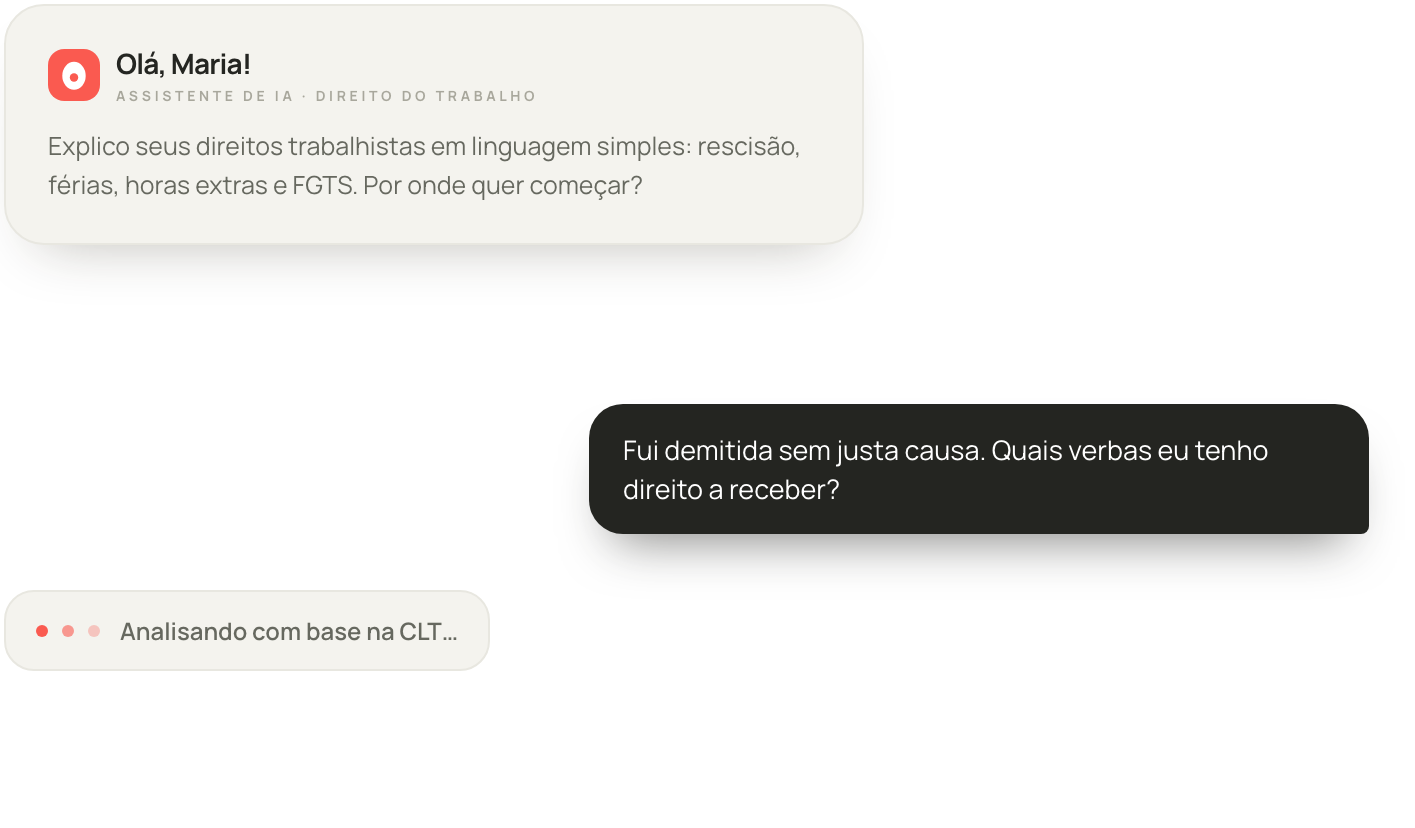
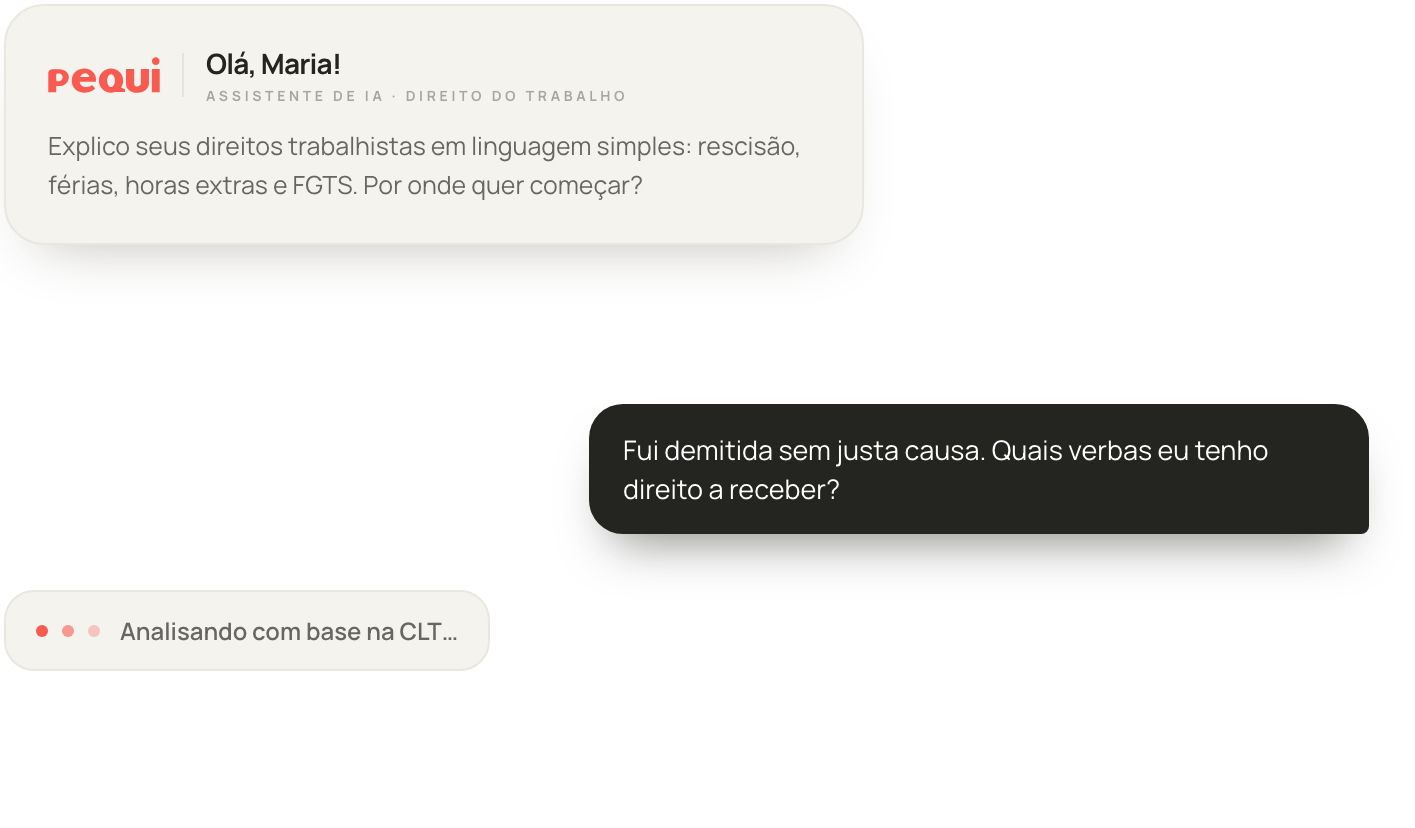
Logotipo oficial do Pequi em coral no site e nas imagens
O menu, o rodapé e o cabeçalho do painel (computador e celular) passam a usar o
logotipo oficial (arquivo Pequi Brand.ai) na cor primária #FA5A50, no lugar do
símbolo com o nome escrito. As 5 prévias da página inicial e a imagem do
Assistente foram refeitas com o logotipo novo.

Changed region(s): [[0.0311, 0.0604, 0.4353, 0.1208]]

diff --git a/app/components/PequiWordmark.tsx b/app/components/PequiWordmark.tsx
@@ -1,6 +1,5 @@
-// Marca em texto do Pequi no esquema M&C (igual à Lucia): símbolo coral
-// arredondado + nome em Manrope. Substitui o logo amarelo (public/logo/logo.png,
-// mantido no projeto) no menu e no rodapé.
+// Marca do Pequi: logotipo oficial em coral (PequiLogo) no menu, no rodapé e no painel.
+// PequiMark (símbolo quadrado) fica disponível para usos pequenos.
 type Props = {
   className?: string;
   tone?: 'ink' | 'light';
@@ -17,17 +16,25 @@ export function PequiMark({ className = 'h-8 w-8' }: { className?: string }) {
   );
 }
 
+// Logotipo oficial "pequi" (arquivo Pequi Brand.ai), na cor primária do site.
+// O arquivo vetorial fica em Builder/Pequi/Marca/pequi-logo-coral.svg.
+const LOGO_VIEWBOX = '64.5 284.4 443.6 142.5';
+const LOGO_PATH =
+  'M 353.61 405.24 C 359.01 397.55 362.18 388.18 362.18 378.04 C 362.18 351.55 340.61 330.33 314.12 330.33 C 287.65 330.33 266.25 351.55 266.25 378.04 C 266.25 404.52 287.65 425.76 314.12 425.76 C 319.41 425.76 324.51 424.91 329.27 423.34 L 369.63 423.34 L 369.63 411.83 Z M 329.55 378.04 C 329.55 391.89 322.54 403.11 314.12 403.11 C 305.88 403.11 298.87 391.89 298.87 378.04 C 298.87 364.18 305.88 352.96 314.12 352.96 C 322.54 352.96 329.55 364.18 329.55 378.04 M 191.93 364.01 C 195.26 354.89 202.61 348.93 211.04 348.93 C 220.5 348.93 227.93 355.94 227.93 364.01 Z M 190.71 382.25 L 254.19 382.25 C 259.1 354.37 237.35 330.33 208.94 330.33 C 178.78 330.33 158.44 351.9 158.44 378.38 C 158.44 404.52 178.07 425.76 211.23 425.76 C 227.36 425.76 242.44 418.55 251.03 409.25 L 239.28 395.75 C 233.67 400.48 226.82 403.47 217.54 403.47 C 200.36 403.47 189.83 394.7 190.71 382.25 M 491.39 285.45 C 482.97 285.45 476.13 292.28 476.13 300.7 C 476.13 309.12 482.97 315.61 491.39 315.61 C 499.63 315.61 506.47 309.12 506.47 300.7 C 506.47 292.28 499.63 285.45 491.39 285.45 M 475.79 423.81 L 507 423.81 L 507 332.27 L 475.79 332.27 Z M 110.62 332.45 C 128.48 332.45 146.74 344.68 147.05 362.52 C 147.39 383 131.46 399.57 110.62 399.57 L 96.92 399.57 L 96.92 423.81 L 65.57 423.81 L 65.57 352.12 C 65.72 346.95 65.2 332.5 83.8 332.45 Z M 103.26 380.2 L 108.82 380.2 C 116.45 380.2 122.61 373.35 122.61 364.9 C 122.61 356.4 116.45 349.56 108.82 349.56 C 105.42 349.57 106.13 349.58 102.75 349.58 C 100.61 349.58 97.09 350.43 97.01 355.31 C 97.01 363.28 97 367.01 97.01 374.97 C 97.11 378.14 99.93 380.17 103.26 380.2 M 464.34 388.96 L 464.34 332.27 L 432.21 332.27 L 432.21 391.79 C 429.37 397.47 423.7 401.25 417.09 401.25 C 408.59 401.25 405.75 397.47 405.75 382.36 L 405.75 332.27 L 373.62 332.27 L 373.62 390.86 C 373.62 408.81 388.74 425.82 417.09 425.82 C 448.27 425.82 464.34 405.98 464.34 388.96';
+
+export function PequiLogo({ className = 'h-7 w-auto', tone = 'brand' }: { className?: string; tone?: 'brand' | 'light' | 'ink' }) {
+  const fill = tone === 'light' ? '#FFFFFF' : tone === 'ink' ? 'var(--ink, #242521)' : 'var(--pequi-500, #FA5A50)';
+  return (
+    <svg viewBox={LOGO_VIEWBOX} className={className} role="img" aria-label="Pequi">
+      <path fill={fill} fillRule="evenodd" d={LOGO_PATH} />
+    </svg>
+  );
+}
+
 export default function PequiWordmark({ className = '', tone = 'ink' }: Props) {
   return (
-    <span className={`inline-flex items-center gap-2.5 ${className}`}>
-      <PequiMark />
-      <span
-        className={`text-[1.3rem] font-semibold leading-none tracking-[-0.045em] ${
-          tone === 'light' ? 'text-white' : 'text-ink'
-        }`}
-      >
-        Pequi
-      </span>
+    <span className={`inline-flex items-center ${className}`}>
+      <PequiLogo className="h-[26px] w-auto" tone={tone === 'light' ? 'light' : 'brand'} />
     </span>
   );
 }

diff --git a/app/components/DashboardLayout.tsx b/app/components/DashboardLayout.tsx
@@ -1,7 +1,7 @@
 'use client';
 
 import { useState, useEffect } from 'react';
-import { PequiMark } from './PequiWordmark';
+import { PequiLogo } from './PequiWordmark';
 import Link from 'next/link';
 import ToolIcon, { ToolIconName, ToolIconTile } from './ToolIcon';
 import { useRouter, usePathname } from 'next/navigation';
@@ -69,14 +69,9 @@ export default function DashboardLayout({ children, title, actions, fitScreen = 
         className={`fixed inset-y-0 left-0 z-50 flex flex-col w-72 bg-castanha-25 border-r border-castanha-200 transition-transform duration-300 md:hidden ${showSidebar ? 'translate-x-0' : '-translate-x-full'}`}
       >
         <div className="h-24 flex items-center px-8 border-b border-castanha-200 mb-6">
-          <Link href="/" className="flex items-center gap-3">
-            <div className="w-10 h-10 rounded-xl flex items-center justify-center">
-              <PequiMark className="h-9 w-9" />
-            </div>
-            <div className="flex flex-col">
-              <span className="text-foreground font-semibold text-[17px] tracking-[-0.04em] leading-none">Pequi</span>
-              <span className="text-[10px] font-bold text-foreground/20 uppercase tracking-[0.3em] mt-1">IA Jurídica</span>
-            </div>
+          <Link href="/" className="flex flex-col items-start gap-1.5" aria-label="Página inicial do Pequi">
+            <PequiLogo className="h-[24px] w-auto" />
+            <span className="text-[10px] font-bold text-foreground/30 uppercase tracking-[0.3em]">IA Jurídica</span>
           </Link>
         </div>
 
@@ -125,14 +120,9 @@ export default function DashboardLayout({ children, title, actions, fitScreen = 
             <svg className="w-6 h-6" fill="none" viewBox="0 0 24 24" stroke="currentColor"><path strokeLinecap="round" strokeLinejoin="round" strokeWidth="1.5" d="M4 6h16M4 12h16M4 18h16" /></svg>
           </button>
           
-          <Link href="/" className="flex items-center gap-3 hidden sm:flex lg:mr-4">
-            <div className="w-10 h-10 rounded-xl flex items-center justify-center">
-              <PequiMark className="h-9 w-9" />
-            </div>
-            <div className="flex flex-col hidden lg:flex">
-              <span className="text-foreground font-semibold text-[17px] tracking-[-0.04em] leading-none">Pequi</span>
-              <span className="text-[10px] font-bold text-foreground/20 uppercase tracking-[0.3em] mt-1">IA Jurídica</span>
-            </div>
+          <Link href="/" className="hidden sm:flex flex-col items-start gap-1.5 lg:mr-4" aria-label="Página inicial do Pequi">
+            <PequiLogo className="h-[22px] w-auto" />
+            <span className="hidden lg:block text-[10px] font-bold text-foreground/30 uppercase tracking-[0.3em]">IA Jurídica</span>
           </Link>
 
           <div className="h-8 w-px bg-castanha-200 hidden lg:block" />
